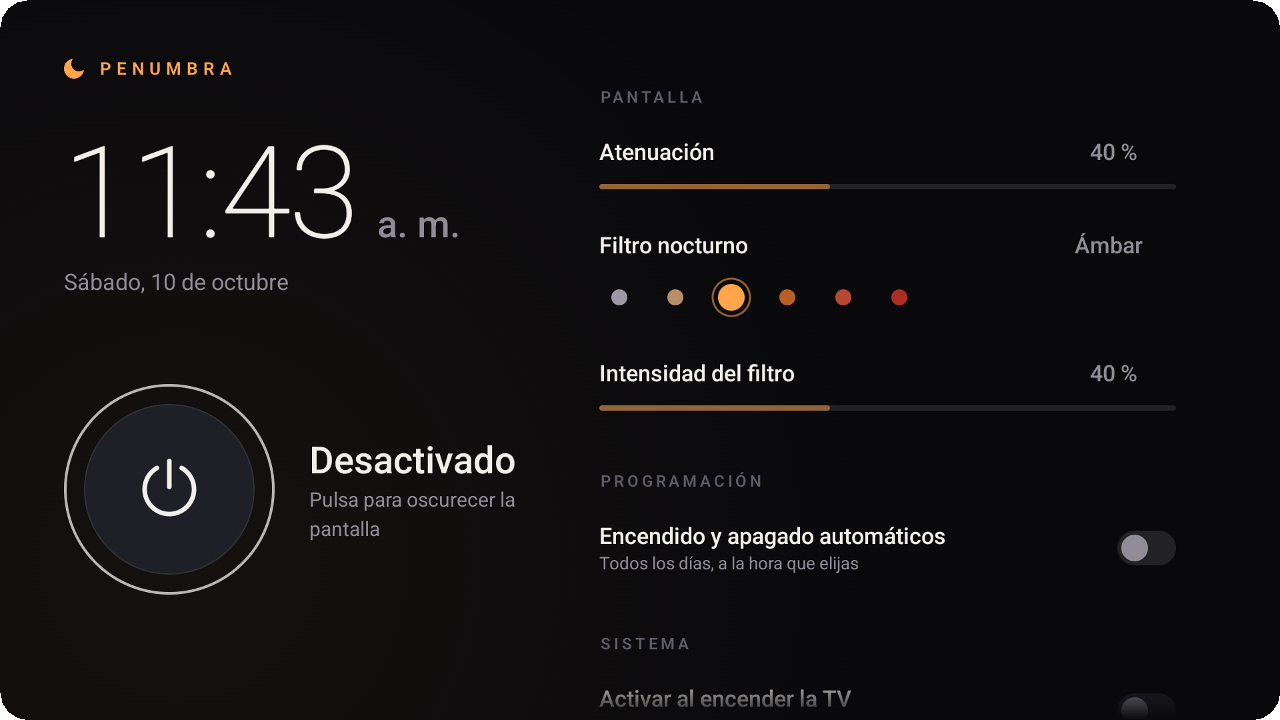
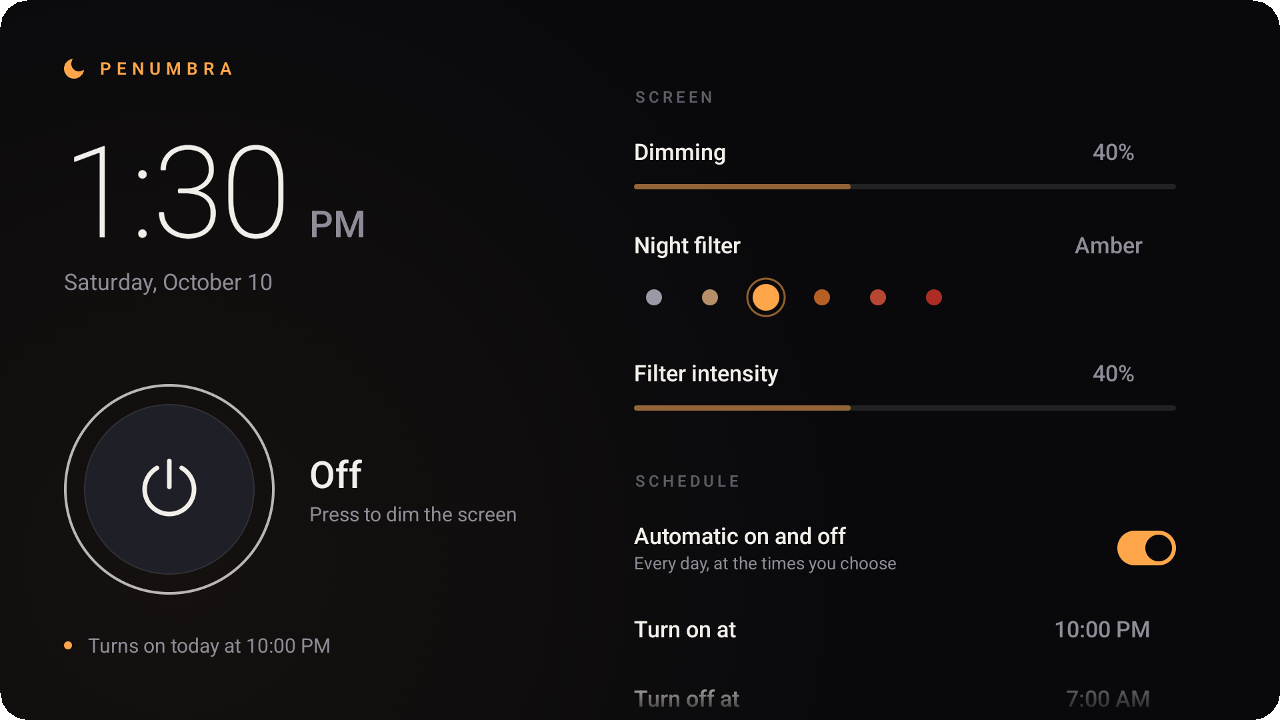
Add English language support
English is now the default language and Spanish is used on TVs set to
Spanish. Dates and times follow the device's language and 12/24-hour
setting, the launcher banner is localised, and the status line now shows
the next change the schedule will actually make.

The README is fully in English with new screenshots, and the release APK
only bundles English and Spanish resources.

diff --git a/app/src/main/java/com/penumbra/tv/ui/Format.kt b/app/src/main/java/com/penumbra/tv/ui/Format.kt
@@ -9,34 +9,39 @@ import java.time.Instant
 import java.time.LocalTime
 import java.time.ZoneId
 import java.time.format.DateTimeFormatter
-import java.util.Locale
 
-private val spanish: Locale = Locale.forLanguageTag("es-ES")
-private val time24 = DateTimeFormatter.ofPattern("HH:mm", spanish)
-private val time12 = DateTimeFormatter.ofPattern("h:mm a", spanish)
-private val clock12 = DateTimeFormatter.ofPattern("h:mm", spanish)
-private val dayPeriod = DateTimeFormatter.ofPattern("a", spanish)
-private val longDate = DateTimeFormatter.ofPattern("EEEE, d 'de' MMMM", spanish)
+/** Date and time follow the device language, with the pattern that language expects. */
+private fun Context.formatter(skeleton: String, fallback: String): DateTimeFormatter {
+    val locale = resources.configuration.locales[0]
+    return runCatching {
+        DateTimeFormatter.ofPattern(DateFormat.getBestDateTimePattern(locale, skeleton), locale)
+    }.getOrElse { DateTimeFormatter.ofPattern(fallback, locale) }
+}
 
-fun formatTime(context: Context, time: LocalTime): String =
-    time.format(if (DateFormat.is24HourFormat(context)) time24 else time12)
+fun formatTime(context: Context, time: LocalTime): String = time.format(
+    if (DateFormat.is24HourFormat(context)) context.formatter("Hm", "HH:mm") else context.formatter("hm", "h:mm a"),
+)
 
 fun formatMinuteOfDay(context: Context, minuteOfDay: Int): String =
     formatTime(context, LocalTime.of(minuteOfDay / 60, minuteOfDay % 60))
 
-/** The big clock: digits and, on 12-hour devices, the "a. m." marker shown smaller beside them. */
+/** The big clock: digits and, on 12-hour devices, the AM/PM marker shown smaller beside them. */
 fun formatClock(context: Context, now: Long): Pair<String, String?> {
     val time = Instant.ofEpochMilli(now).atZone(ZoneId.systemDefault()).toLocalTime()
     return if (DateFormat.is24HourFormat(context)) {
-        time.format(time24) to null
+        time.format(context.formatter("Hm", "HH:mm")) to null
     } else {
-        time.format(clock12) to time.format(dayPeriod)
+        val locale = context.resources.configuration.locales[0]
+        time.format(DateTimeFormatter.ofPattern("h:mm", locale)) to time.format(DateTimeFormatter.ofPattern("a", locale))
     }
 }
 
-fun formatDate(now: Long): String =
-    Instant.ofEpochMilli(now).atZone(ZoneId.systemDefault()).format(longDate)
-        .replaceFirstChar { it.titlecase(spanish) }
+fun formatDate(context: Context, now: Long): String {
+    val locale = context.resources.configuration.locales[0]
+    return Instant.ofEpochMilli(now).atZone(ZoneId.systemDefault())
+        .format(context.formatter("EEEEdMMMM", "EEEE, d MMMM"))
+        .replaceFirstChar { it.titlecase(locale) }
+}
 
 fun formatFade(context: Context, minutes: Int): String = when {
     minutes <= 0 -> context.getString(R.string.fade_off)

diff --git a/app/src/main/java/com/penumbra/tv/ui/PenumbraScreen.kt b/app/src/main/java/com/penumbra/tv/ui/PenumbraScreen.kt
@@ -219,7 +219,7 @@ private fun StatusPane(
                     )
                 }
             }
-            Text(formatDate(now), style = Type.Date, color = Palette.TextSecondary)
+            Text(formatDate(context, now), style = Type.Date, color = Palette.TextSecondary)
         }
 
         Column {
@@ -236,7 +236,7 @@ private fun StatusPane(
                 }
             }
             Spacer(Modifier.height(26.dp))
-            NextEvent(state, now)
+            NextEvent(state, active, now)
         }
     }
 }
@@ -250,9 +250,11 @@ private fun statusDetail(context: Context, state: FilterState, now: Long, mode: 
 }
 
 @Composable
-private fun NextEvent(state: FilterState, now: Long) {
+private fun NextEvent(state: FilterState, active: Boolean, now: Long) {
     val context = LocalContext.current
-    val next = if (state.scheduleEnabled) Schedule.next(state, now) else null
+    var next = if (state.scheduleEnabled) Schedule.next(state, now) else null
+    // Describe the next real change: a boundary that matches the current state changes nothing.
+    if (next != null && next.turnsOn == active) next = Schedule.next(state, next.at)
     Row(Modifier.height(24.dp), verticalAlignment = Alignment.CenterVertically) {
         if (next == null) return@Row
         val zone = ZoneId.systemDefault()

diff --git a/README.md b/README.md
@@ -17,19 +17,17 @@
   <img src="docs/screen-on.png" width="49%" alt="Penumbra with the amber filter on">
 </p>
 
-<p align="center"><sub>🇪🇸 <a href="README.es.md">Leer en español</a></sub></p>
+<p align="center"><sub>🇪🇸 <a href="README.es.md">Spanish version</a></sub></p>
 
 ## ✨ Features
 
-- 🌗 **Dim the screen** from 0 to 100 %, on top of any app.
+- 🌗 **Dim the screen** from 0 to 100%, on top of any app.
 - 🎨 **Night tones**: Neutral, Warm, Amber, Candle, Sunset and Red, with adjustable intensity.
 - ⏰ **Daily schedule** that turns the filter on and off by itself, even across midnight (22:00 → 07:00).
 - 🌅 **Gradual dimming** that fades the screen in slowly when the schedule starts.
 - 📺 **Starts with your TV**: optionally switches on every time the TV wakes up.
 - 🎮 **Remote-first**: one clean screen, every setting a few clicks away.
-
-> [!NOTE]
-> The app's interface is in Spanish. The [settings table](#-settings) below translates every option.
+- 🌍 **English and Spanish**: follows your TV's language.
 
 ## 📦 Install
 
@@ -68,7 +66,7 @@ adb install Penumbra.apk
 Install **Send Files to TV** on your phone and on the TV, send the APK, and open it with a file manager on the TV (allow it to install unknown apps when asked).
 </details>
 
-**3. Open Penumbra** on the TV and press **Abrir accesibilidad › Penumbra › Enable**. That's it.
+**3. Open Penumbra** on the TV and press **Open accessibility › Penumbra › Enable**. That's it.
 
 ## 🎮 Using it
 
@@ -87,16 +85,16 @@ Changes apply instantly: the app itself sits under the filter, so you see the re
 
 ## ⚙ Settings
 
-| In the app | What it does |
+| Setting | What it does |
 |---|---|
-| **Atenuación** | How dark the screen gets |
-| **Filtro nocturno** | Colour tone: Neutro, Cálido, Ámbar, Vela, Ocaso, Rojo |
-| **Intensidad del filtro** | Strength of the colour tone |
-| **Encendido y apagado automáticos** | Turns the daily schedule on |
-| **Encender a las · Apagar a las** | Start and end time |
-| **Oscurecimiento gradual** | How long the fade-in takes at the start time (off, 5, 15, 30 or 60 min) |
-| **Activar al encender la TV** | Switches the filter on whenever the TV wakes up or restarts |
-| **Bajar también el brillo del sistema** | Also lowers the system brightness, on TVs that support it |
+| **Dimming** | How dark the screen gets |
+| **Night filter** | Colour tone: Neutral, Warm, Amber, Candle, Sunset or Red |
+| **Filter intensity** | Strength of the colour tone |
+| **Automatic on and off** | Turns the daily schedule on |
+| **Turn on at · Turn off at** | Start and end time |
+| **Gradual dimming** | How long the fade-in takes at the start time (off, 5, 15, 30 or 60 min) |
+| **Turn on with the TV** | Switches the filter on whenever the TV wakes up or restarts |
+| **Also lower the system brightness** | Lowers the real backlight too, on TVs that support it |
 
 ## 🔒 Privacy
 

diff --git a/README.es.md b/README.es.md
@@ -16,6 +16,7 @@ App para Google TV / Android TV que oscurece la pantalla y aplica un filtro de c
 | Encendido y apagado automáticos a una hora | **Encender a las / Apagar a las**: cada día, también si la ventana cruza la medianoche (p. ej. 22:00 → 07:00). Usa alarmas exactas y se recupera si la TV estaba en reposo, se reinició o cambió la hora. |
 | Arranque automático | **Activar al encender la TV**: el filtro se activa solo cada vez que la TV se enciende o se reinicia. |
 | Interfaz bonita y minimalista | Pantalla única, oscura, pensada para el mando: reloj grande, botón de encendido con halo y un color de acento que sigue al tono elegido. |
+| Idiomas | **Español e inglés**: la app usa el idioma de la TV. |
 
 Los cambios se ven al instante: la propia interfaz queda bajo el filtro.
 
@@ -110,7 +111,7 @@ app/src/main/java/com/penumbra/tv/
 │   ├── OverlayService.kt       Anfitrión alternativo (servicio en primer plano)
 │   └── OverlayHost.kt          Elige anfitrión según los permisos
 ├── receiver/                   Alarmas, arranque, actualización y cambios de hora
-└── ui/                         Interfaz Compose for TV
+└── ui/                         Interfaz Compose for TV (textos en res/values y res/values-es)
 ```
 
 Tests unitarios del horario y del modelo: `./gradlew testDebugUnitTest`.
